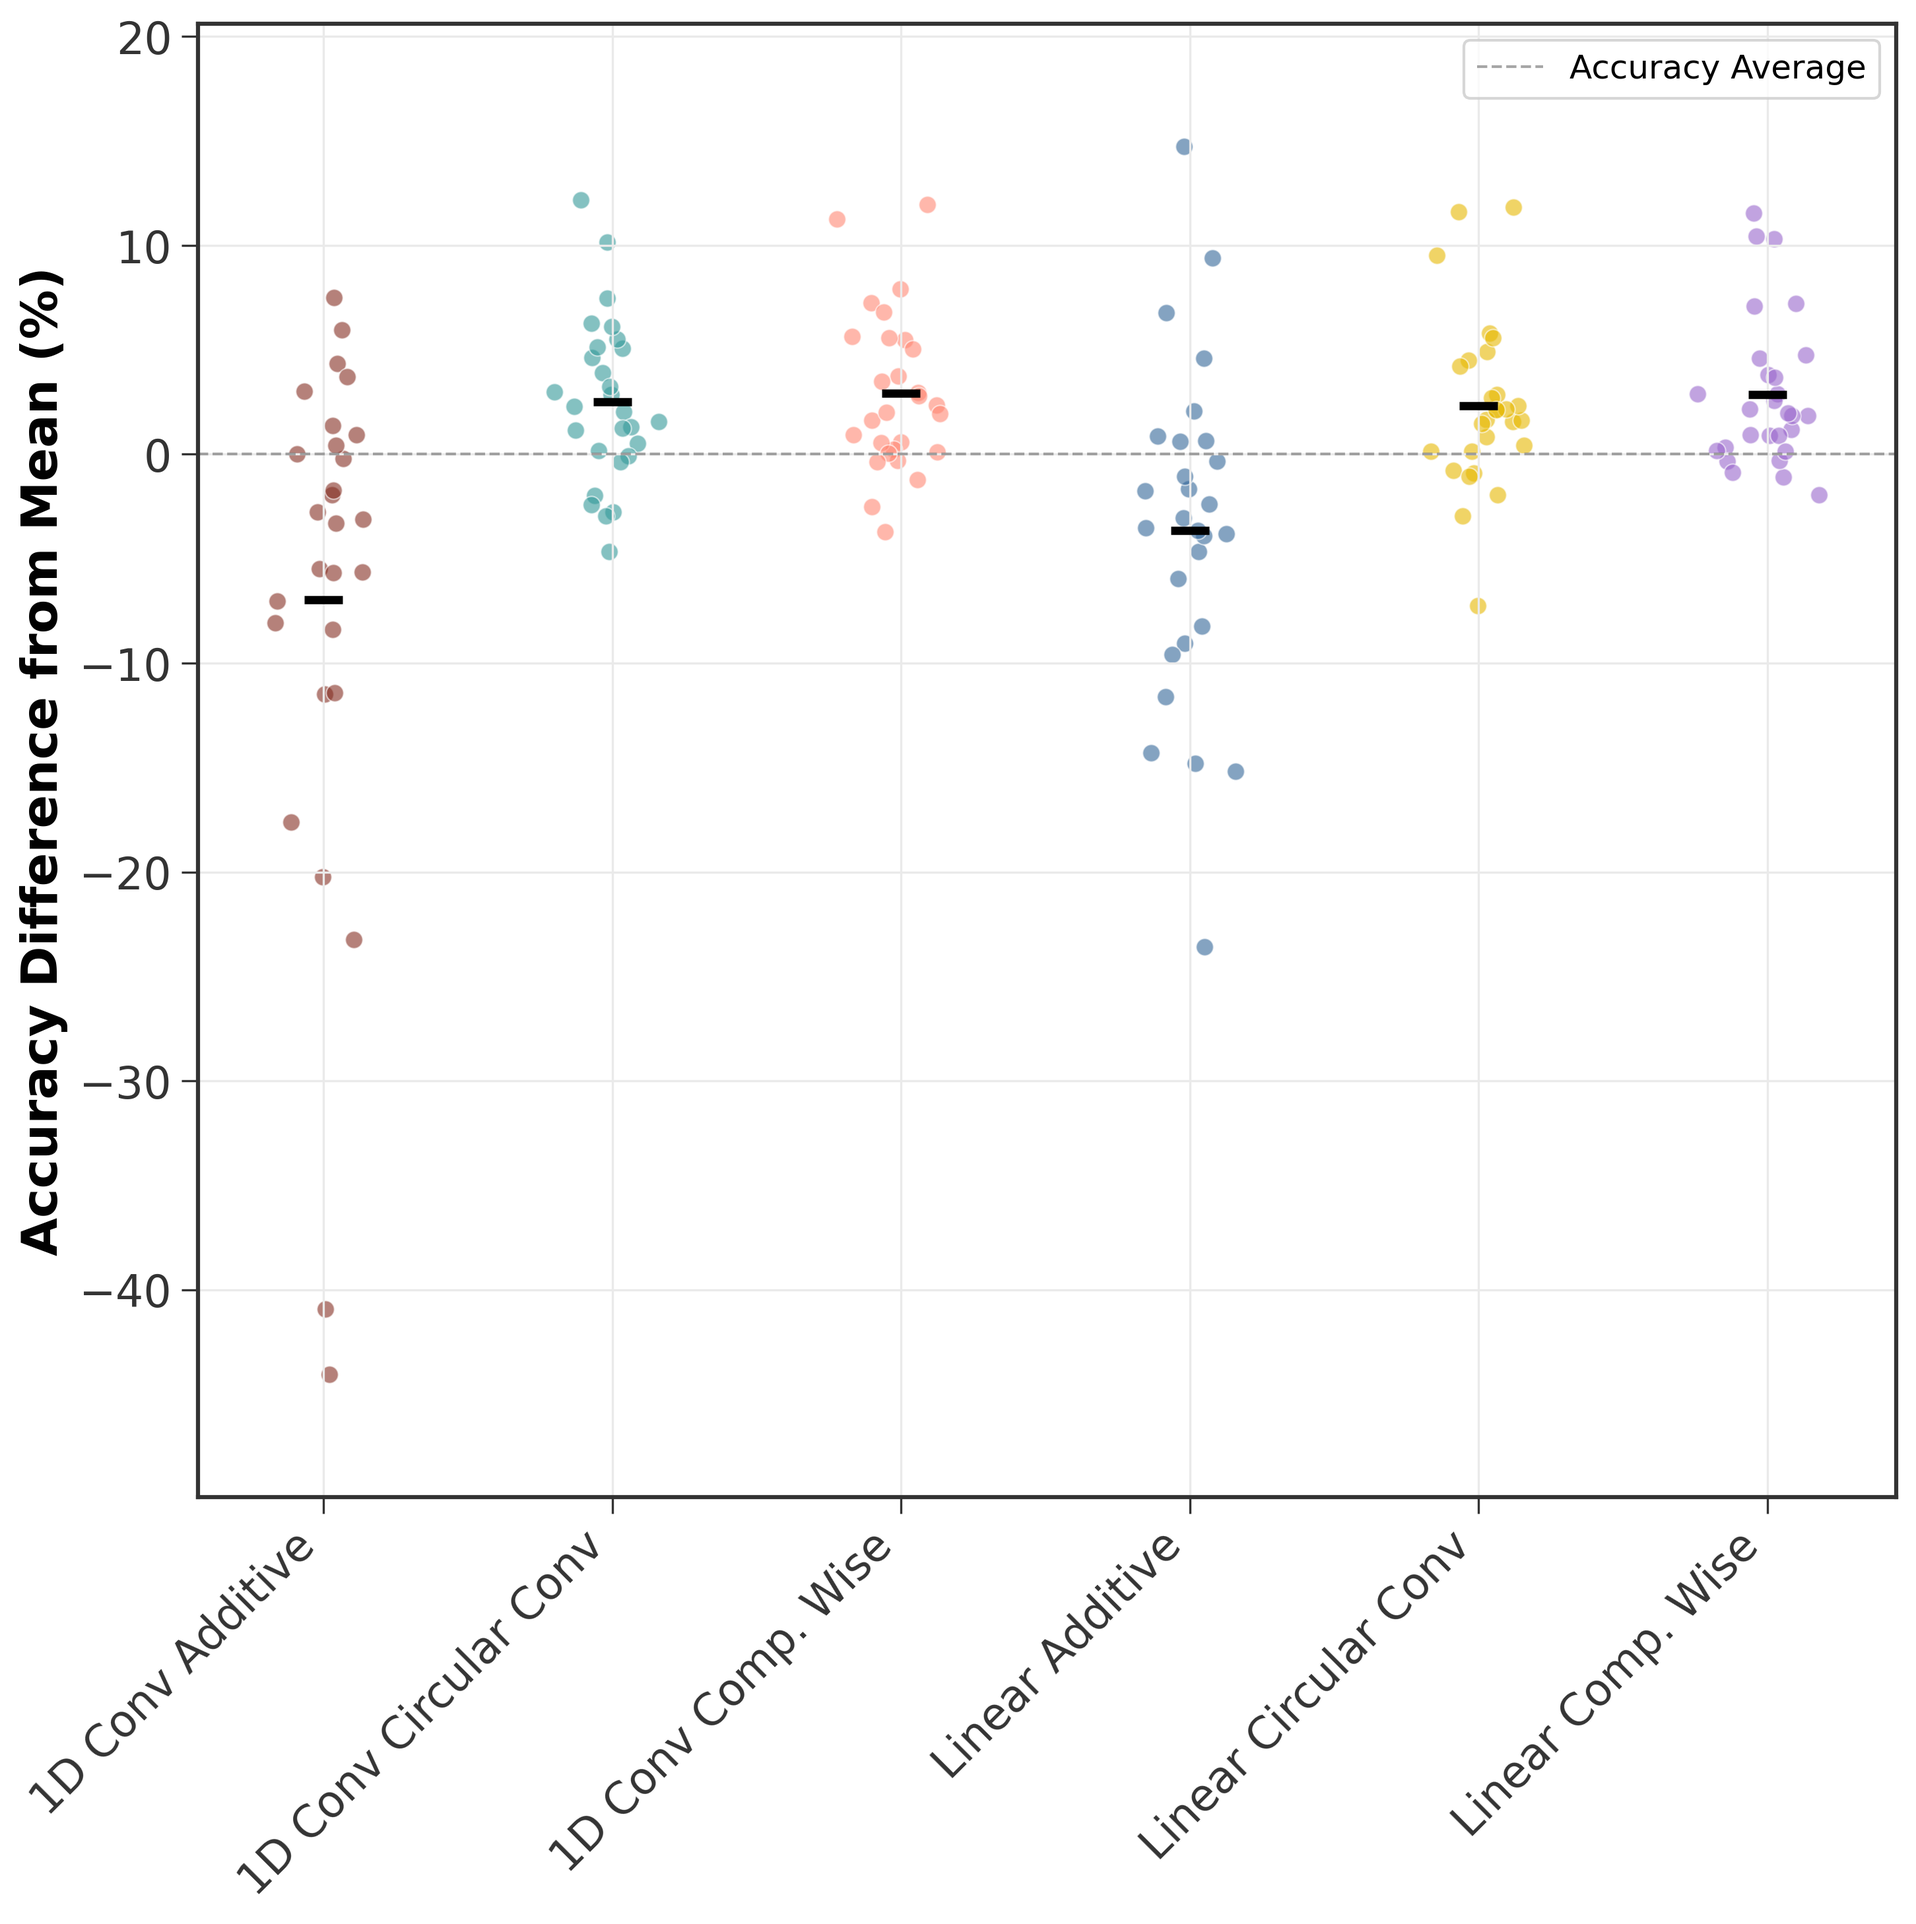
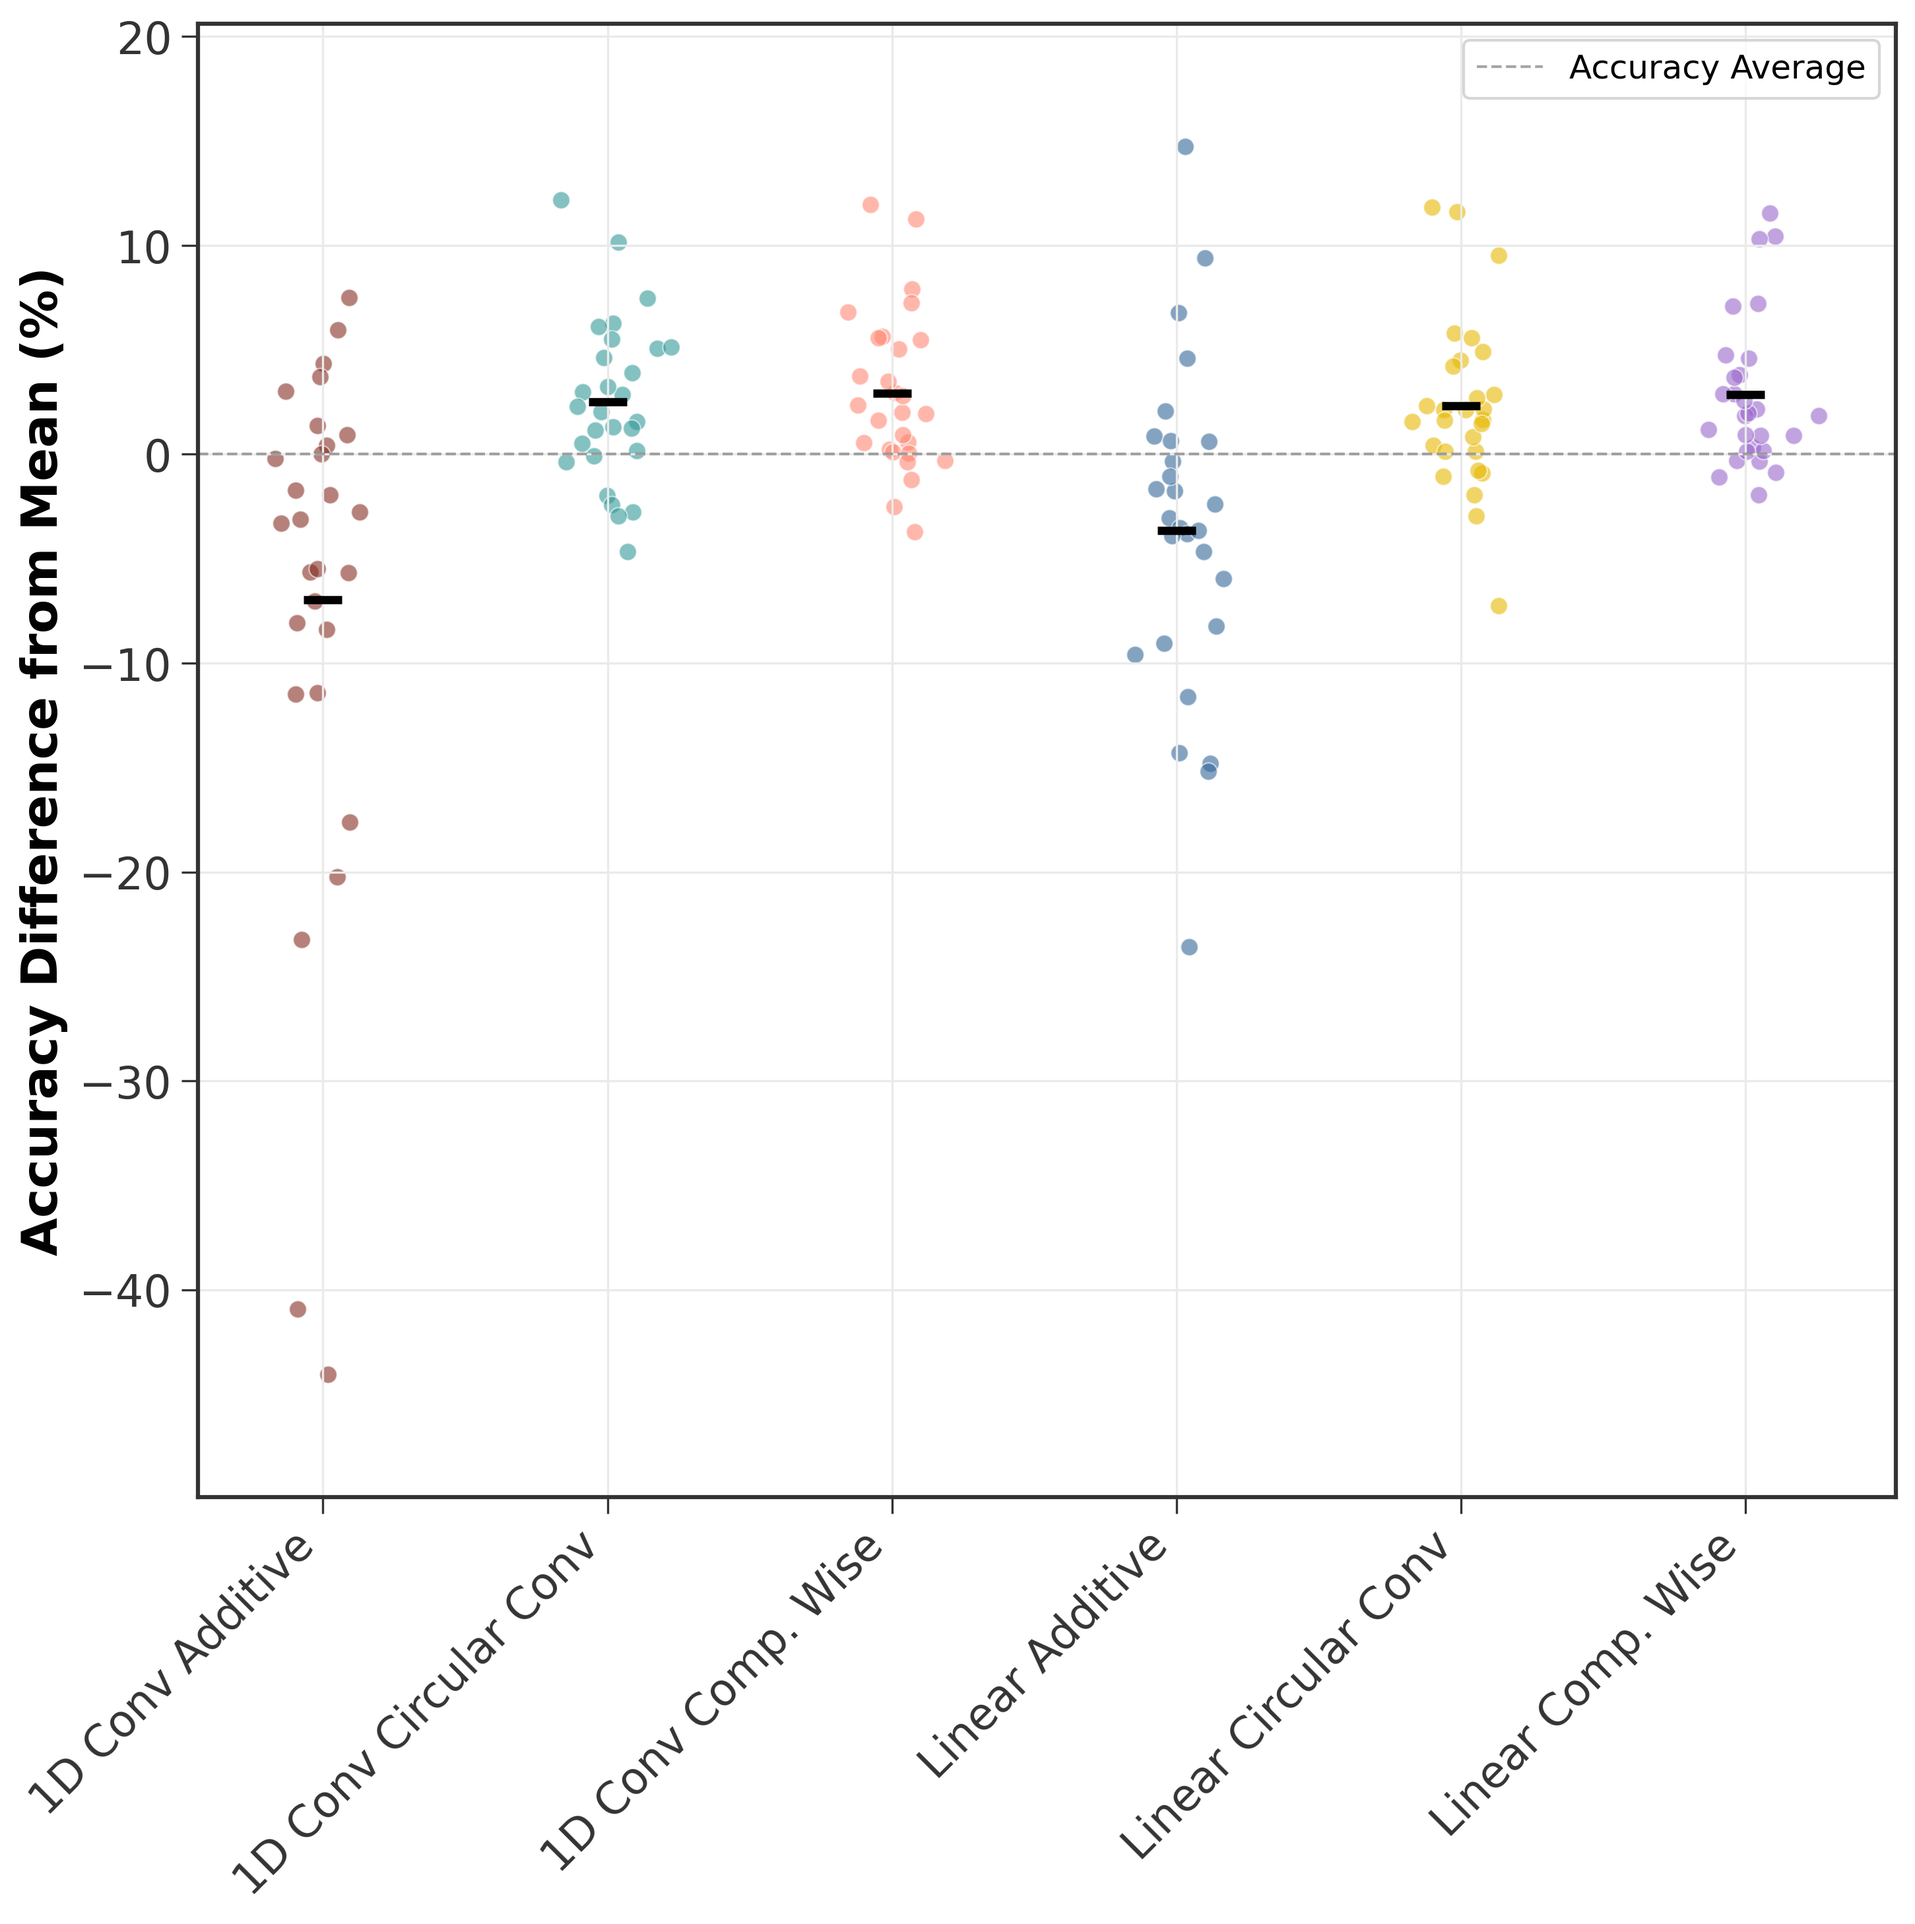
fix tight layout

diff --git a/src/experiments/visualization/paper.py b/src/experiments/visualization/paper.py
@@ -209,7 +209,7 @@ def plot_bar_dataset_acc(metrics: pandas.DataFrame, output_path: pathlib.Path) -
     pyplot.tight_layout()
 
     if output_path is not None:
-        pyplot.savefig(output_path)
+        pyplot.savefig(output_path, bbox_inches="tight")
 
     pyplot.show()
 
